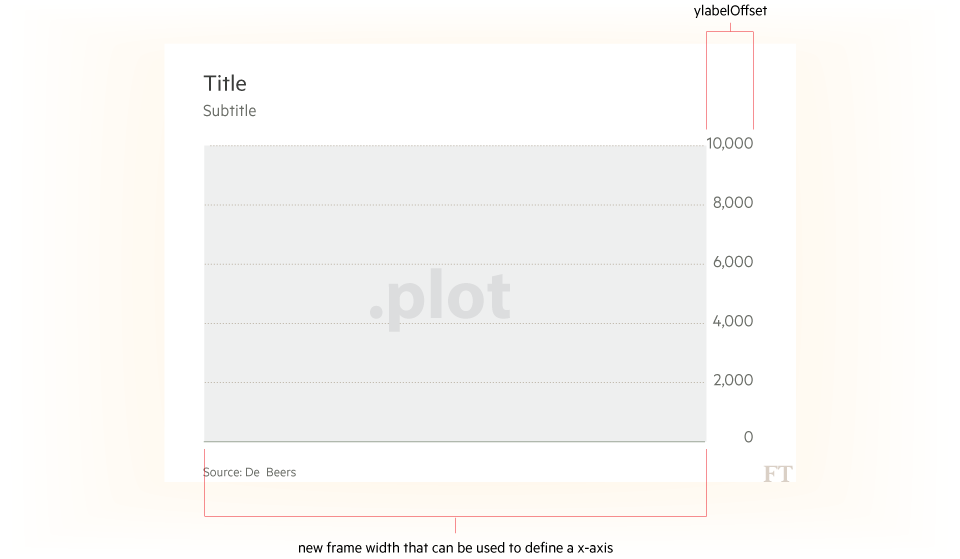
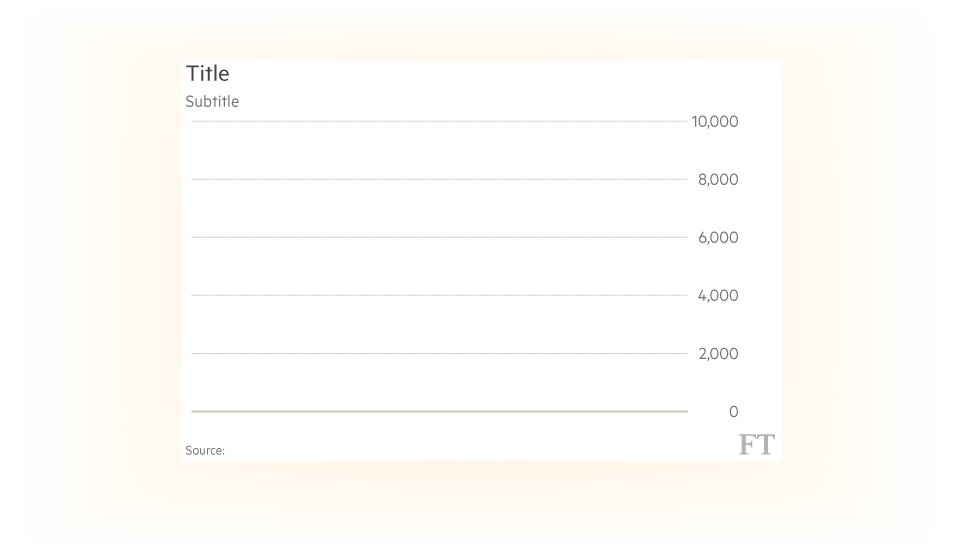
Updated image and README.md

diff --git a/README.md b/README.md
@@ -29,11 +29,20 @@ Not yet deployed untill fully testedi
 Add the following code to your index.js to append a default y-axis to the .plot object
 
 ```
-const myAxis = gAxis.yaxisLinear;
+let myAxis = gAxis.yaxisLinear;
 currentFrame.plot()
 	.call(myYAxis);
 ```
 ![alt tag](https://github.com/ft-interactive/g-yaxislinear/blob/master/images/initialPlot.png)
+
+```
+let myAxis = gAxis.yaxisLinear;
+myYAxis
+    .range([currentFrame.dimension().height,0])
+    .tickSize(currentFrame.dimension().width);
+currentFrame.plot()
+	.call(myYAxis);
+```
 
 ### Positioning
 The rendered axis returns the width of the ticks text via the .yLabelOffset setter. The ticks are positioned on the right by default, but can be changed (see examples).
